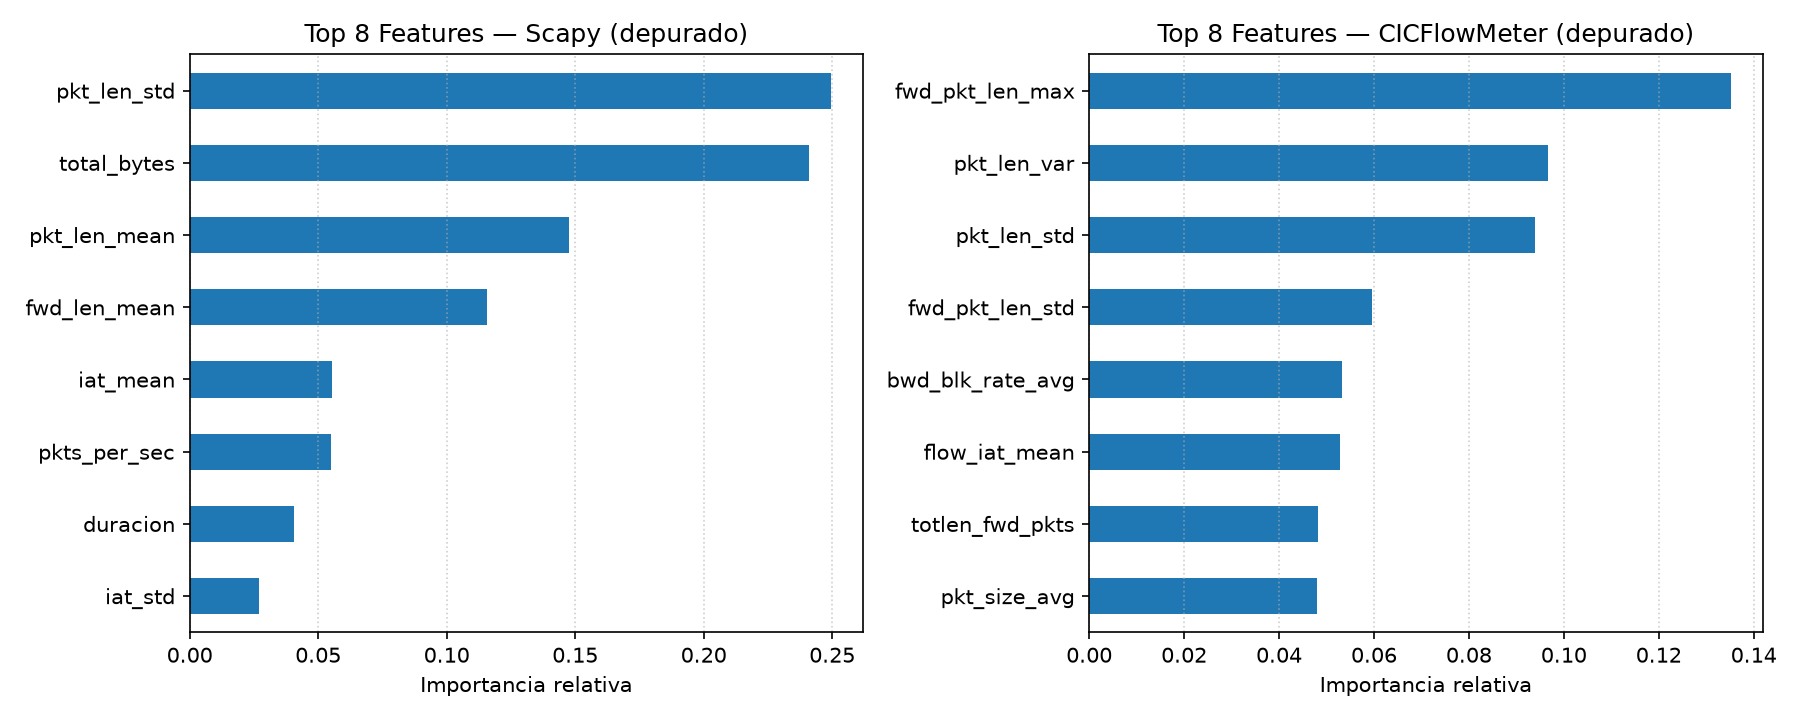
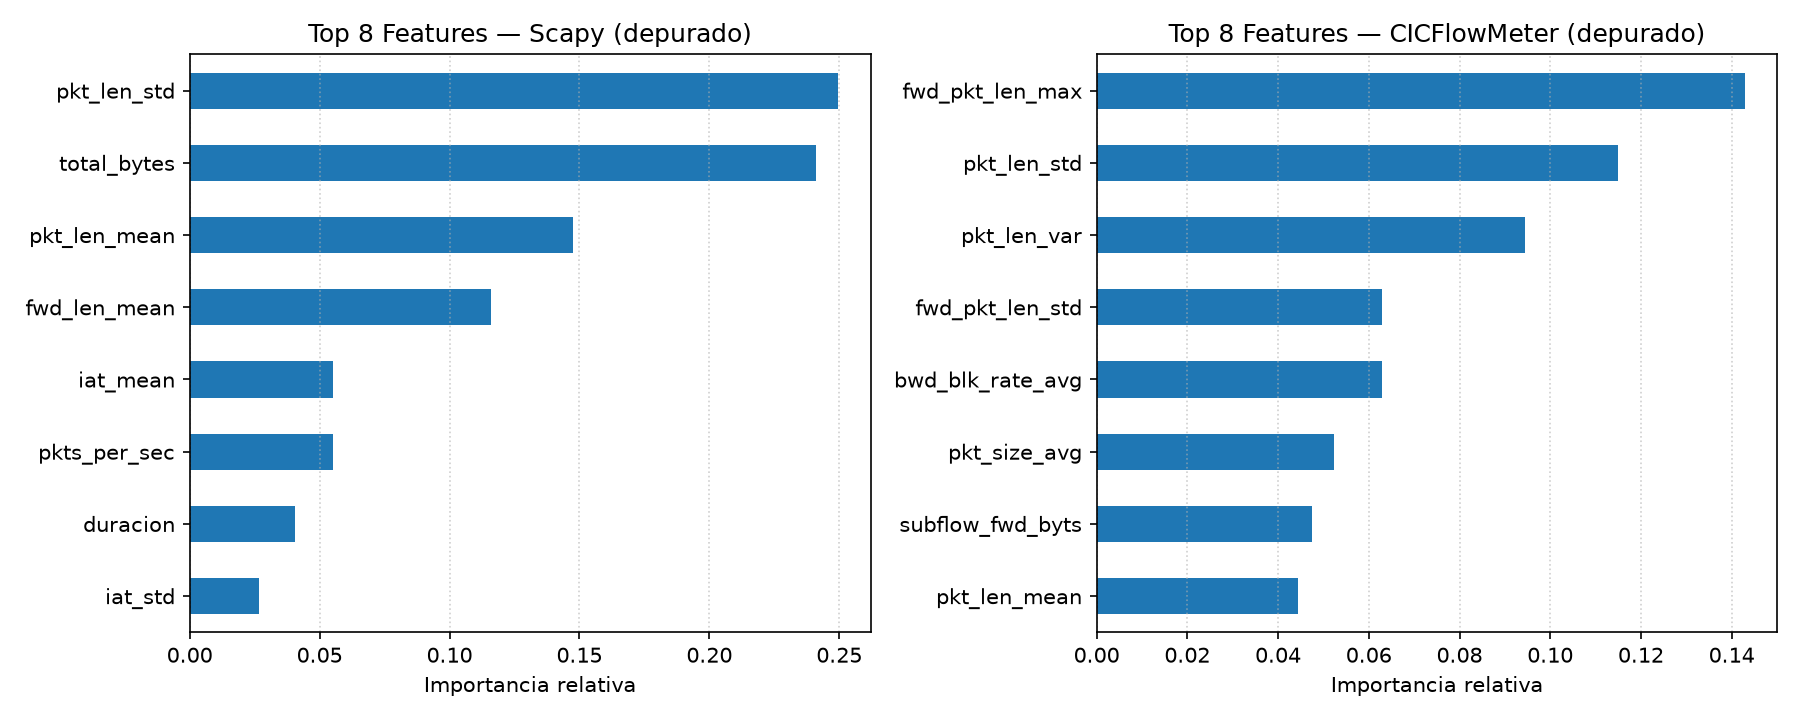
fix generar_graficos_depurados.py excluir protocol y agrego generar_matrices_confusion.py con sus graficos

diff --git a/scripts/generar_matrices_confusion.py b/scripts/generar_matrices_confusion.py
@@ -1,0 +1,70 @@
+"""
+Matrices de confusión a partir de resultados ya calculados (sin nuevos experimentos).
+Combina: 4 escenarios de variantes no vistas (E2, label=1) + benigno_eval (label=0, 150 flujos
+independientes). Fuente: ~/experimentos/depurado_c4/tabla_eventos.csv.
+"""
+import os
+import pandas as pd
+import numpy as np
+import matplotlib
+matplotlib.use("Agg")
+import matplotlib.pyplot as plt
+from sklearn.metrics import confusion_matrix
+
+DIR_DEP = os.path.expanduser("~/experimentos/depurado_c4")
+df = pd.read_csv(os.path.join(DIR_DEP, "tabla_eventos.csv"))
+
+escenarios_e2_novistas = ["evasion_c3", "evasion_c4", "control_ua", "evasion_c7_v2"]
+subset = df[df["escenario"].isin(escenarios_e2_novistas + ["benigno_eval"])].copy()
+print("Flujos incluidos:", subset.shape[0], "( esperado 160 + 150 = 310 )")
+print(subset["escenario"].value_counts())
+
+y_true = subset["label_real"].values
+modelos = [
+    ("Suricata", "det_suricata"),
+    ("RF - Scapy (19f)", "det_rf_scapy"),
+    ("RF - CICFlowMeter (76f)", "det_rf_cic"),
+]
+
+fig, axes = plt.subplots(1, 3, figsize=(15, 4.8))
+for ax, (nombre, col) in zip(axes, modelos):
+    y_pred = subset[col].values
+    cm = confusion_matrix(y_true, y_pred, labels=[0, 1])
+    tn, fp, fn, tp = cm.ravel()
+    recall = (tp / (tp + fn) * 100) if (tp + fn) > 0 else 0.0
+    fpr = (fp / (fp + tn) * 100) if (fp + tn) > 0 else 0.0
+    ax.imshow(cm, cmap="Blues")
+    ax.set_title(f"{nombre}\n(Recall={recall:.1f}%, FPR={fpr:.1f}%)", fontsize=11)
+    ax.set_xticks([0, 1])
+    ax.set_xticklabels(["Benigno", "Malicioso"])
+    ax.set_yticks([0, 1])
+    ax.set_yticklabels(["Benigno", "Malicioso"])
+    ax.set_xlabel("Predicción")
+    ax.set_ylabel("Etiqueta real")
+    for i in range(2):
+        for j in range(2):
+            ax.text(
+                j, i, str(cm[i, j]),
+                ha="center", va="center",
+                color="white" if cm[i, j] > cm.max() / 2 else "black",
+                fontsize=14, fontweight="bold"
+            )
+
+fig.suptitle(
+    "Matrices de confusión: variantes no vistas (evasion_c3, evasion_c4 dep., control_ua,\n"
+    "evasion_c7_v2 — n=160, label=malicioso) + benigno_eval (n=150, label=benigno, independiente)",
+    fontsize=11
+)
+plt.tight_layout(rect=[0, 0, 1, 0.90])
+out = os.path.join(DIR_DEP, "matrices_confusion_e2_benigno_eval.png")
+plt.savefig(out, dpi=150)
+print("[+] Guardado:", out)
+
+# Métricas numéricas de referencia, para citar en el texto
+for nombre, col in modelos:
+    y_pred = subset[col].values
+    cm = confusion_matrix(y_true, y_pred, labels=[0, 1])
+    tn, fp, fn, tp = cm.ravel()
+    recall = (tp / (tp + fn) * 100) if (tp + fn) > 0 else 0.0
+    fpr = (fp / (fp + tn) * 100) if (fp + tn) > 0 else 0.0
+    print(f"{nombre}: TP={tp} FN={fn} FP={fp} TN={tn} | Recall={recall:.2f}% FPR={fpr:.2f}%")

diff --git a/scripts/generar_graficos_depurados.py b/scripts/generar_graficos_depurados.py
@@ -65,7 +65,7 @@ df_cic = pd.read_csv(os.path.join(DIR_DEP, "dataset_cic_unificado_depurado.csv")
 mapa_lbl = {"benigno": 0, "estandar": 1, "sqli_base": 1, "evasion_c3": 1, "evasion_c4": 1, "control_ua": 1, "evasion_c7_v2": 1}
 df_cic = df_cic[df_cic["escenario"].isin(mapa_lbl)].copy()
 y_c = df_cic["escenario"].map(mapa_lbl).values
-non_c = {"escenario", "label", "src_ip", "dst_ip", "src_port", "dst_port", "timestamp", "flow_id"}
+non_c = {"escenario", "label", "src_ip", "dst_ip", "src_port", "dst_port", "protocol", "timestamp", "flow_id"}
 cols_c = [c for c in df_cic.columns if c not in non_c and pd.api.types.is_numeric_dtype(df_cic[c])]
 X_c = df_cic[cols_c].replace([np.inf, -np.inf], np.nan).fillna(0.0).values
 clf_c = RandomForestClassifier(n_estimators=200, random_state=42).fit(X_c, y_c)
